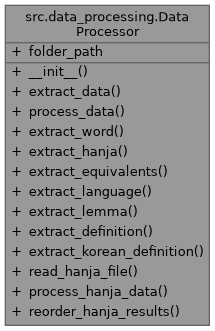
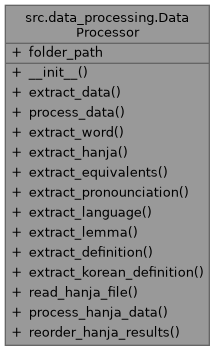
deploy: 311dc2bb75c84f01fe07c454813e0054d6c8f191

diff --git a/docs/classsrc_1_1data__access_1_1DataAccess.html b/docs/classsrc_1_1data__access_1_1DataAccess.html
@@ -125,9 +125,9 @@ Public Member Functions</h2></td></tr>
 <tr class="memitem:a1cfc6893f66c213340355c6acaf1a3a3" id="r_a1cfc6893f66c213340355c6acaf1a3a3"><td class="memItemLeft" align="right" valign="top">&#160;</td><td class="memItemRight" valign="bottom"><a class="el" href="classsrc_1_1data__access_1_1DataAccess.html#a1cfc6893f66c213340355c6acaf1a3a3">insert_hanja_data</a> (self, hanja_dict)</td></tr>
 <tr class="memdesc:a1cfc6893f66c213340355c6acaf1a3a3"><td class="mdescLeft">&#160;</td><td class="mdescRight">Inserts Hanja data into the 'hanja_characters' table.  <br /></td></tr>
 <tr class="separator:a1cfc6893f66c213340355c6acaf1a3a3"><td class="memSeparator" colspan="2">&#160;</td></tr>
-<tr class="memitem:a23e8da2b908674f31c01407620fe3728" id="r_a23e8da2b908674f31c01407620fe3728"><td class="memItemLeft" align="right" valign="top">&#160;</td><td class="memItemRight" valign="bottom"><a class="el" href="classsrc_1_1data__access_1_1DataAccess.html#a23e8da2b908674f31c01407620fe3728">drop_tables</a> (self, cursor)</td></tr>
-<tr class="memdesc:a23e8da2b908674f31c01407620fe3728"><td class="mdescLeft">&#160;</td><td class="mdescRight">Drops the 'hanja_characters' and 'korean_words' tables if they exist.  <br /></td></tr>
-<tr class="separator:a23e8da2b908674f31c01407620fe3728"><td class="memSeparator" colspan="2">&#160;</td></tr>
+<tr class="memitem:aeea5396030fe584da1640d87530a5cf1" id="r_aeea5396030fe584da1640d87530a5cf1"><td class="memItemLeft" align="right" valign="top">&#160;</td><td class="memItemRight" valign="bottom"><a class="el" href="classsrc_1_1data__access_1_1DataAccess.html#aeea5396030fe584da1640d87530a5cf1">drop_tables</a> (self)</td></tr>
+<tr class="memdesc:aeea5396030fe584da1640d87530a5cf1"><td class="mdescLeft">&#160;</td><td class="mdescRight">Drops the 'hanja_characters' and 'korean_words' tables if they exist.  <br /></td></tr>
+<tr class="separator:aeea5396030fe584da1640d87530a5cf1"><td class="memSeparator" colspan="2">&#160;</td></tr>
 <tr class="memitem:af99a1b0f03112122e4af577353d3444b" id="r_af99a1b0f03112122e4af577353d3444b"><td class="memItemLeft" align="right" valign="top">&#160;</td><td class="memItemRight" valign="bottom"><a class="el" href="classsrc_1_1data__access_1_1DataAccess.html#af99a1b0f03112122e4af577353d3444b">remove_duplicates</a> (self)</td></tr>
 <tr class="separator:af99a1b0f03112122e4af577353d3444b"><td class="memSeparator" colspan="2">&#160;</td></tr>
 <tr class="memitem:a6c59fef88695c46c9ee18f370e4346c6" id="r_a6c59fef88695c46c9ee18f370e4346c6"><td class="memItemLeft" align="right" valign="top">&#160;</td><td class="memItemRight" valign="bottom"><a class="el" href="classsrc_1_1data__access_1_1DataAccess.html#a6c59fef88695c46c9ee18f370e4346c6">get_hanja_for_word</a> (self, word)</td></tr>
@@ -136,8 +136,8 @@ Public Member Functions</h2></td></tr>
 <tr class="memitem:a3d1907ec15f436a5a700997ec2bdeedd" id="r_a3d1907ec15f436a5a700997ec2bdeedd"><td class="memItemLeft" align="right" valign="top">&#160;</td><td class="memItemRight" valign="bottom"><a class="el" href="classsrc_1_1data__access_1_1DataAccess.html#a3d1907ec15f436a5a700997ec2bdeedd">get_hanja_meanings_for_word</a> (self, word, hanja_list, language)</td></tr>
 <tr class="memdesc:a3d1907ec15f436a5a700997ec2bdeedd"><td class="mdescLeft">&#160;</td><td class="mdescRight">Retrieves Hanja meanings of every characters associated with a given Korean word.  <br /></td></tr>
 <tr class="separator:a3d1907ec15f436a5a700997ec2bdeedd"><td class="memSeparator" colspan="2">&#160;</td></tr>
-<tr class="memitem:a3f2fa8212ead4b1885e8f26697b4b0b9" id="r_a3f2fa8212ead4b1885e8f26697b4b0b9"><td class="memItemLeft" align="right" valign="top">&#160;</td><td class="memItemRight" valign="bottom"><a class="el" href="classsrc_1_1data__access_1_1DataAccess.html#a3f2fa8212ead4b1885e8f26697b4b0b9">get_word_by_korean</a> (self, korean_word, language)</td></tr>
-<tr class="separator:a3f2fa8212ead4b1885e8f26697b4b0b9"><td class="memSeparator" colspan="2">&#160;</td></tr>
+<tr class="memitem:a1122604162d00ff40da4c08ce4761cbb" id="r_a1122604162d00ff40da4c08ce4761cbb"><td class="memItemLeft" align="right" valign="top">&#160;</td><td class="memItemRight" valign="bottom"><a class="el" href="classsrc_1_1data__access_1_1DataAccess.html#a1122604162d00ff40da4c08ce4761cbb">get_word_by_korean</a> (self, korean_word, language, hanja_characters=None)</td></tr>
+<tr class="separator:a1122604162d00ff40da4c08ce4761cbb"><td class="memSeparator" colspan="2">&#160;</td></tr>
 <tr class="memitem:a1f8eb51816b5631748421df5638689e4" id="r_a1f8eb51816b5631748421df5638689e4"><td class="memItemLeft" align="right" valign="top">&#160;</td><td class="memItemRight" valign="bottom"><a class="el" href="classsrc_1_1data__access_1_1DataAccess.html#a1f8eb51816b5631748421df5638689e4">get_related_words</a> (self, hanja_character, language)</td></tr>
 <tr class="memdesc:a1f8eb51816b5631748421df5638689e4"><td class="mdescLeft">&#160;</td><td class="mdescRight">Gets all the words that contains the specified hanja character.  <br /></td></tr>
 <tr class="separator:a1f8eb51816b5631748421df5638689e4"><td class="memSeparator" colspan="2">&#160;</td></tr>
@@ -148,8 +148,8 @@ Public Member Functions</h2></td></tr>
 <a name="details" id="details"></a><h2 class="groupheader">Detailed Description</h2>
 <div class="textblock"><p>A class to handle database operations for managing Korean words and their associated Hanja characters. </p>
 </div><h2 class="groupheader">Member Function Documentation</h2>
-<a id="a23e8da2b908674f31c01407620fe3728" name="a23e8da2b908674f31c01407620fe3728"></a>
-<h2 class="memtitle"><span class="permalink"><a href="#a23e8da2b908674f31c01407620fe3728">&#9670;&#160;</a></span>drop_tables()</h2>
+<a id="aeea5396030fe584da1640d87530a5cf1" name="aeea5396030fe584da1640d87530a5cf1"></a>
+<h2 class="memtitle"><span class="permalink"><a href="#aeea5396030fe584da1640d87530a5cf1">&#9670;&#160;</a></span>drop_tables()</h2>
 
 <div class="memitem">
 <div class="memproto">
@@ -158,29 +158,13 @@ Public Member Functions</h2></td></tr>
           <td class="memname">src.data_access.DataAccess.drop_tables </td>
           <td>(</td>
           <td class="paramtype">&#160;</td>
-          <td class="paramname"><em>self</em>, </td>
-        </tr>
-        <tr>
-          <td class="paramkey"></td>
+          <td class="paramname"><em>self</em></td><td>)</td>
           <td></td>
-          <td class="paramtype">&#160;</td>
-          <td class="paramname"><em>cursor</em>&#160;</td>
-        </tr>
-        <tr>
-          <td></td>
-          <td>)</td>
-          <td></td><td></td>
         </tr>
       </table>
 </div><div class="memdoc">
 
 <p>Drops the 'hanja_characters' and 'korean_words' tables if they exist. </p>
-<dl class="params"><dt>Parameters</dt><dd>
-  <table class="params">
-    <tr><td class="paramname">cursor</td><td>(sqlite3.Cursor): The database cursor for executing SQL commands. </td></tr>
-  </table>
-  </dd>
-</dl>
 
 </div>
 </div>
@@ -337,8 +321,8 @@ Public Member Functions</h2></td></tr>
 
 </div>
 </div>
-<a id="a3f2fa8212ead4b1885e8f26697b4b0b9" name="a3f2fa8212ead4b1885e8f26697b4b0b9"></a>
-<h2 class="memtitle"><span class="permalink"><a href="#a3f2fa8212ead4b1885e8f26697b4b0b9">&#9670;&#160;</a></span>get_word_by_korean()</h2>
+<a id="a1122604162d00ff40da4c08ce4761cbb" name="a1122604162d00ff40da4c08ce4761cbb"></a>
+<h2 class="memtitle"><span class="permalink"><a href="#a1122604162d00ff40da4c08ce4761cbb">&#9670;&#160;</a></span>get_word_by_korean()</h2>
 
 <div class="memitem">
 <div class="memproto">
@@ -359,7 +343,13 @@ Public Member Functions</h2></td></tr>
           <td class="paramkey"></td>
           <td></td>
           <td class="paramtype">&#160;</td>
-          <td class="paramname"><em>language</em>&#160;</td>
+          <td class="paramname"><em>language</em>, </td>
+        </tr>
+        <tr>
+          <td class="paramkey"></td>
+          <td></td>
+          <td class="paramtype">&#160;</td>
+          <td class="paramname"><em>hanja_characters</em> = <code>None</code>&#160;</td>
         </tr>
         <tr>
           <td></td>
@@ -411,6 +401,7 @@ Database Schema:</h2>
 <li><code>korean</code> (TEXT, NOT NULL): Korean pronunciation of the Hanja.</li>
 <li><code>englishDefinition</code> (TEXT): Meaning of the Hanja character in english.</li>
 <li><code>frenchDefinition</code> (TEXT): Meaning of the Hanja character in french.</li>
+<li><code>pronounciation</code> (TEXT): html link of audio for the word's pronounciation.</li>
 </ul>
 <div class="image">
 <img src="database_diagram.png" alt="" width="400"/>
@@ -455,7 +446,8 @@ Database Schema:</h2>
 <li><code>englishLemma</code> (str): Lemma/word in English.</li>
 <li><code>englishDefinition</code> (str): English definition of the word.</li>
 <li><code>frenchLemma</code> (str): Lemma/word in French.</li>
-<li><code>frenchDefinition</code> (str): French definition of the word. </li>
+<li><code>frenchDefinition</code> (str): French definition of the word.</li>
+<li><code>pronounciation</code> (str): html link of audio for the word's pronounciation. </li>
 </ul>
 </td></tr>
   </table>

diff --git a/docs/navtreeindex0.js b/docs/navtreeindex0.js
@@ -15,18 +15,16 @@ var NAVTREEINDEX0 =
 "app_8py.html#ae8b1a661fd35aa767fc796c02781ba82":[2,0,0,1,1],
 "app_8py.html#af539acf96b123b092913c3b972d45f8d":[2,0,0,1,5],
 "classes.html":[1,1],
-"classsrc_1_1data__access_1_1DataAccess.html":[1,0,0,0,0],
 "classsrc_1_1data__access_1_1DataAccess.html":[0,0,1,1,0],
-"classsrc_1_1data__access_1_1DataAccess.html#a1cfc6893f66c213340355c6acaf1a3a3":[1,0,0,0,0,8],
+"classsrc_1_1data__access_1_1DataAccess.html":[1,0,0,0,0],
+"classsrc_1_1data__access_1_1DataAccess.html#a1122604162d00ff40da4c08ce4761cbb":[1,0,0,0,0,5],
+"classsrc_1_1data__access_1_1DataAccess.html#a1122604162d00ff40da4c08ce4761cbb":[0,0,1,1,0,5],
 "classsrc_1_1data__access_1_1DataAccess.html#a1cfc6893f66c213340355c6acaf1a3a3":[0,0,1,1,0,8],
+"classsrc_1_1data__access_1_1DataAccess.html#a1cfc6893f66c213340355c6acaf1a3a3":[1,0,0,0,0,8],
 "classsrc_1_1data__access_1_1DataAccess.html#a1f8eb51816b5631748421df5638689e4":[0,0,1,1,0,4],
 "classsrc_1_1data__access_1_1DataAccess.html#a1f8eb51816b5631748421df5638689e4":[1,0,0,0,0,4],
-"classsrc_1_1data__access_1_1DataAccess.html#a23e8da2b908674f31c01407620fe3728":[0,0,1,1,0,0],
-"classsrc_1_1data__access_1_1DataAccess.html#a23e8da2b908674f31c01407620fe3728":[1,0,0,0,0,0],
 "classsrc_1_1data__access_1_1DataAccess.html#a3d1907ec15f436a5a700997ec2bdeedd":[1,0,0,0,0,3],
 "classsrc_1_1data__access_1_1DataAccess.html#a3d1907ec15f436a5a700997ec2bdeedd":[0,0,1,1,0,3],
-"classsrc_1_1data__access_1_1DataAccess.html#a3f2fa8212ead4b1885e8f26697b4b0b9":[0,0,1,1,0,5],
-"classsrc_1_1data__access_1_1DataAccess.html#a3f2fa8212ead4b1885e8f26697b4b0b9":[1,0,0,0,0,5],
 "classsrc_1_1data__access_1_1DataAccess.html#a4684f7cefabfbcb84b28be9e2ef74f64":[0,0,1,1,0,6],
 "classsrc_1_1data__access_1_1DataAccess.html#a4684f7cefabfbcb84b28be9e2ef74f64":[1,0,0,0,0,6],
 "classsrc_1_1data__access_1_1DataAccess.html#a4f4e7ab71ee7131858752bdfb4d0e2f1":[0,0,1,1,0,7],
@@ -35,46 +33,50 @@ var NAVTREEINDEX0 =
 "classsrc_1_1data__access_1_1DataAccess.html#a6c59fef88695c46c9ee18f370e4346c6":[0,0,1,1,0,2],
 "classsrc_1_1data__access_1_1DataAccess.html#abcea9b4378c4ccf458bc2ad40418efdd":[1,0,0,0,0,1],
 "classsrc_1_1data__access_1_1DataAccess.html#abcea9b4378c4ccf458bc2ad40418efdd":[0,0,1,1,0,1],
+"classsrc_1_1data__access_1_1DataAccess.html#aeea5396030fe584da1640d87530a5cf1":[1,0,0,0,0,0],
+"classsrc_1_1data__access_1_1DataAccess.html#aeea5396030fe584da1640d87530a5cf1":[0,0,1,1,0,0],
 "classsrc_1_1data__access_1_1DataAccess.html#af99a1b0f03112122e4af577353d3444b":[0,0,1,1,0,9],
 "classsrc_1_1data__access_1_1DataAccess.html#af99a1b0f03112122e4af577353d3444b":[1,0,0,0,0,9],
-"classsrc_1_1data__processing_1_1DataProcessor.html":[0,0,1,2,0],
 "classsrc_1_1data__processing_1_1DataProcessor.html":[1,0,0,1,0],
-"classsrc_1_1data__processing_1_1DataProcessor.html#a3a6f7d8ef4426dfe180524a089fe5ea9":[0,0,1,2,0,7],
+"classsrc_1_1data__processing_1_1DataProcessor.html":[0,0,1,2,0],
 "classsrc_1_1data__processing_1_1DataProcessor.html#a3a6f7d8ef4426dfe180524a089fe5ea9":[1,0,0,1,0,7],
-"classsrc_1_1data__processing_1_1DataProcessor.html#a3f151d5d1bb0d7794aacf774691d3d1f":[1,0,0,1,0,13],
-"classsrc_1_1data__processing_1_1DataProcessor.html#a3f151d5d1bb0d7794aacf774691d3d1f":[0,0,1,2,0,13],
+"classsrc_1_1data__processing_1_1DataProcessor.html#a3a6f7d8ef4426dfe180524a089fe5ea9":[0,0,1,2,0,7],
+"classsrc_1_1data__processing_1_1DataProcessor.html#a3f151d5d1bb0d7794aacf774691d3d1f":[0,0,1,2,0,14],
+"classsrc_1_1data__processing_1_1DataProcessor.html#a3f151d5d1bb0d7794aacf774691d3d1f":[1,0,0,1,0,14],
 "classsrc_1_1data__processing_1_1DataProcessor.html#a4d8f294a1410020041fdd57ebca5c629":[1,0,0,1,0,1],
 "classsrc_1_1data__processing_1_1DataProcessor.html#a4d8f294a1410020041fdd57ebca5c629":[0,0,1,2,0,1],
 "classsrc_1_1data__processing_1_1DataProcessor.html#a5ee76136c86c8978b38d4917ea51d145":[1,0,0,1,0,2],
 "classsrc_1_1data__processing_1_1DataProcessor.html#a5ee76136c86c8978b38d4917ea51d145":[0,0,1,2,0,2],
-"classsrc_1_1data__processing_1_1DataProcessor.html#a611dcfaf4a6c3129fc38bc01d659203f":[0,0,1,2,0,10],
-"classsrc_1_1data__processing_1_1DataProcessor.html#a611dcfaf4a6c3129fc38bc01d659203f":[1,0,0,1,0,10],
+"classsrc_1_1data__processing_1_1DataProcessor.html#a611dcfaf4a6c3129fc38bc01d659203f":[1,0,0,1,0,11],
+"classsrc_1_1data__processing_1_1DataProcessor.html#a611dcfaf4a6c3129fc38bc01d659203f":[0,0,1,2,0,11],
 "classsrc_1_1data__processing_1_1DataProcessor.html#a8b10b2a476887fdf599456f74c582652":[1,0,0,1,0,5],
 "classsrc_1_1data__processing_1_1DataProcessor.html#a8b10b2a476887fdf599456f74c582652":[0,0,1,2,0,5],
-"classsrc_1_1data__processing_1_1DataProcessor.html#a8c28d40e8b07b8de8a765f8f5c9c18f8":[1,0,0,1,0,6],
 "classsrc_1_1data__processing_1_1DataProcessor.html#a8c28d40e8b07b8de8a765f8f5c9c18f8":[0,0,1,2,0,6],
-"classsrc_1_1data__processing_1_1DataProcessor.html#a908b48e2667224a24a994f9f15819cdb":[0,0,1,2,0,12],
-"classsrc_1_1data__processing_1_1DataProcessor.html#a908b48e2667224a24a994f9f15819cdb":[1,0,0,1,0,12],
-"classsrc_1_1data__processing_1_1DataProcessor.html#aa387522f4d9d82eab51fad066c97c404":[1,0,0,1,0,3],
+"classsrc_1_1data__processing_1_1DataProcessor.html#a8c28d40e8b07b8de8a765f8f5c9c18f8":[1,0,0,1,0,6],
+"classsrc_1_1data__processing_1_1DataProcessor.html#a908b48e2667224a24a994f9f15819cdb":[0,0,1,2,0,13],
+"classsrc_1_1data__processing_1_1DataProcessor.html#a908b48e2667224a24a994f9f15819cdb":[1,0,0,1,0,13],
 "classsrc_1_1data__processing_1_1DataProcessor.html#aa387522f4d9d82eab51fad066c97c404":[0,0,1,2,0,3],
-"classsrc_1_1data__processing_1_1DataProcessor.html#aca8cb2dd99e8358d0c80ff0f04307193":[0,0,1,2,0,8],
-"classsrc_1_1data__processing_1_1DataProcessor.html#aca8cb2dd99e8358d0c80ff0f04307193":[1,0,0,1,0,8],
-"classsrc_1_1data__processing_1_1DataProcessor.html#accedfc491786ec5de0b62d9f13ed1d2f":[1,0,0,1,0,0],
+"classsrc_1_1data__processing_1_1DataProcessor.html#aa387522f4d9d82eab51fad066c97c404":[1,0,0,1,0,3],
+"classsrc_1_1data__processing_1_1DataProcessor.html#ac8e2944d6f855feb557e929eb4631b51":[0,0,1,2,0,8],
+"classsrc_1_1data__processing_1_1DataProcessor.html#ac8e2944d6f855feb557e929eb4631b51":[1,0,0,1,0,8],
+"classsrc_1_1data__processing_1_1DataProcessor.html#aca8cb2dd99e8358d0c80ff0f04307193":[0,0,1,2,0,9],
+"classsrc_1_1data__processing_1_1DataProcessor.html#aca8cb2dd99e8358d0c80ff0f04307193":[1,0,0,1,0,9],
 "classsrc_1_1data__processing_1_1DataProcessor.html#accedfc491786ec5de0b62d9f13ed1d2f":[0,0,1,2,0,0],
-"classsrc_1_1data__processing_1_1DataProcessor.html#acee13daf812b03ebd4b468b5bd21d832":[0,0,1,2,0,11],
-"classsrc_1_1data__processing_1_1DataProcessor.html#acee13daf812b03ebd4b468b5bd21d832":[1,0,0,1,0,11],
+"classsrc_1_1data__processing_1_1DataProcessor.html#accedfc491786ec5de0b62d9f13ed1d2f":[1,0,0,1,0,0],
+"classsrc_1_1data__processing_1_1DataProcessor.html#acee13daf812b03ebd4b468b5bd21d832":[0,0,1,2,0,12],
+"classsrc_1_1data__processing_1_1DataProcessor.html#acee13daf812b03ebd4b468b5bd21d832":[1,0,0,1,0,12],
 "classsrc_1_1data__processing_1_1DataProcessor.html#ad0cff2f590f2a2398bf8bcc35c99cfc9":[0,0,1,2,0,4],
 "classsrc_1_1data__processing_1_1DataProcessor.html#ad0cff2f590f2a2398bf8bcc35c99cfc9":[1,0,0,1,0,4],
-"classsrc_1_1data__processing_1_1DataProcessor.html#af1d408b78a8a28b54b96e30bc3de1754":[0,0,1,2,0,9],
-"classsrc_1_1data__processing_1_1DataProcessor.html#af1d408b78a8a28b54b96e30bc3de1754":[1,0,0,1,0,9],
+"classsrc_1_1data__processing_1_1DataProcessor.html#af1d408b78a8a28b54b96e30bc3de1754":[0,0,1,2,0,10],
+"classsrc_1_1data__processing_1_1DataProcessor.html#af1d408b78a8a28b54b96e30bc3de1754":[1,0,0,1,0,10],
 "classsrc_1_1database_1_1DatabaseConnection.html":[0,0,1,3,0],
 "classsrc_1_1database_1_1DatabaseConnection.html":[1,0,0,2,0],
 "classsrc_1_1database_1_1DatabaseConnection.html#a00d6547240ef42d689d7825c7a5ad1ed":[1,0,0,2,0,1],
 "classsrc_1_1database_1_1DatabaseConnection.html#a00d6547240ef42d689d7825c7a5ad1ed":[0,0,1,3,0,1],
-"classsrc_1_1database_1_1DatabaseConnection.html#ab4b17edc08a871595f10ae5d2c519806":[1,0,0,2,0,0],
 "classsrc_1_1database_1_1DatabaseConnection.html#ab4b17edc08a871595f10ae5d2c519806":[0,0,1,3,0,0],
-"classsrc_1_1database_1_1DatabaseConnection.html#ace6735dee7ad91a77d0b120ae3cb3f87":[1,0,0,2,0,2],
+"classsrc_1_1database_1_1DatabaseConnection.html#ab4b17edc08a871595f10ae5d2c519806":[1,0,0,2,0,0],
 "classsrc_1_1database_1_1DatabaseConnection.html#ace6735dee7ad91a77d0b120ae3cb3f87":[0,0,1,3,0,2],
+"classsrc_1_1database_1_1DatabaseConnection.html#ace6735dee7ad91a77d0b120ae3cb3f87":[1,0,0,2,0,2],
 "config_8py.html":[2,0,1,1],
 "config_8py.html#a371a629caa526e7cbc3a025840bc1b50":[2,0,1,1,0],
 "config_8py.html#a9ac81f0c023a802f6daf87ac4b00080b":[2,0,1,1,1],

diff --git a/docs/classsrc_1_1data__processing_1_1DataProcessor-members.html b/docs/classsrc_1_1data__processing_1_1DataProcessor-members.html
@@ -110,12 +110,13 @@ $(document).ready(function(){initNavTree('classsrc_1_1data__processing_1_1DataPr
   <tr class="odd"><td class="entry"><a class="el" href="classsrc_1_1data__processing_1_1DataProcessor.html#a8b10b2a476887fdf599456f74c582652">extract_korean_definition</a>(self, entry)</td><td class="entry"><a class="el" href="classsrc_1_1data__processing_1_1DataProcessor.html">src.data_processing.DataProcessor</a></td><td class="entry"></td></tr>
   <tr class="even"><td class="entry"><a class="el" href="classsrc_1_1data__processing_1_1DataProcessor.html#a8c28d40e8b07b8de8a765f8f5c9c18f8">extract_language</a>(self, equivalents)</td><td class="entry"><a class="el" href="classsrc_1_1data__processing_1_1DataProcessor.html">src.data_processing.DataProcessor</a></td><td class="entry"></td></tr>
   <tr class="odd"><td class="entry"><a class="el" href="classsrc_1_1data__processing_1_1DataProcessor.html#a3a6f7d8ef4426dfe180524a089fe5ea9">extract_lemma</a>(self, equivalents)</td><td class="entry"><a class="el" href="classsrc_1_1data__processing_1_1DataProcessor.html">src.data_processing.DataProcessor</a></td><td class="entry"></td></tr>
-  <tr class="even"><td class="entry"><a class="el" href="classsrc_1_1data__processing_1_1DataProcessor.html#aca8cb2dd99e8358d0c80ff0f04307193">extract_word</a>(self, lemma_datas)</td><td class="entry"><a class="el" href="classsrc_1_1data__processing_1_1DataProcessor.html">src.data_processing.DataProcessor</a></td><td class="entry"></td></tr>
-  <tr class="odd"><td class="entry"><a class="el" href="classsrc_1_1data__processing_1_1DataProcessor.html#a3f151d5d1bb0d7794aacf774691d3d1f">folder_path</a></td><td class="entry"><a class="el" href="classsrc_1_1data__processing_1_1DataProcessor.html">src.data_processing.DataProcessor</a></td><td class="entry"></td></tr>
-  <tr class="even"><td class="entry"><a class="el" href="classsrc_1_1data__processing_1_1DataProcessor.html#af1d408b78a8a28b54b96e30bc3de1754">process_data</a>(self, raw_data)</td><td class="entry"><a class="el" href="classsrc_1_1data__processing_1_1DataProcessor.html">src.data_processing.DataProcessor</a></td><td class="entry"></td></tr>
-  <tr class="odd"><td class="entry"><a class="el" href="classsrc_1_1data__processing_1_1DataProcessor.html#a611dcfaf4a6c3129fc38bc01d659203f">process_hanja_data</a>(self, lines)</td><td class="entry"><a class="el" href="classsrc_1_1data__processing_1_1DataProcessor.html">src.data_processing.DataProcessor</a></td><td class="entry"></td></tr>
-  <tr class="even"><td class="entry"><a class="el" href="classsrc_1_1data__processing_1_1DataProcessor.html#acee13daf812b03ebd4b468b5bd21d832">read_hanja_file</a>(self, file_path)</td><td class="entry"><a class="el" href="classsrc_1_1data__processing_1_1DataProcessor.html">src.data_processing.DataProcessor</a></td><td class="entry"></td></tr>
-  <tr class="odd"><td class="entry"><a class="el" href="classsrc_1_1data__processing_1_1DataProcessor.html#a908b48e2667224a24a994f9f15819cdb">reorder_hanja_results</a>(self, hanja_results, hanja_characters)</td><td class="entry"><a class="el" href="classsrc_1_1data__processing_1_1DataProcessor.html">src.data_processing.DataProcessor</a></td><td class="entry"></td></tr>
+  <tr class="even"><td class="entry"><a class="el" href="classsrc_1_1data__processing_1_1DataProcessor.html#ac8e2944d6f855feb557e929eb4631b51">extract_pronounciation</a>(self, word_form)</td><td class="entry"><a class="el" href="classsrc_1_1data__processing_1_1DataProcessor.html">src.data_processing.DataProcessor</a></td><td class="entry"></td></tr>
+  <tr class="odd"><td class="entry"><a class="el" href="classsrc_1_1data__processing_1_1DataProcessor.html#aca8cb2dd99e8358d0c80ff0f04307193">extract_word</a>(self, lemma_datas)</td><td class="entry"><a class="el" href="classsrc_1_1data__processing_1_1DataProcessor.html">src.data_processing.DataProcessor</a></td><td class="entry"></td></tr>
+  <tr class="even"><td class="entry"><a class="el" href="classsrc_1_1data__processing_1_1DataProcessor.html#a3f151d5d1bb0d7794aacf774691d3d1f">folder_path</a></td><td class="entry"><a class="el" href="classsrc_1_1data__processing_1_1DataProcessor.html">src.data_processing.DataProcessor</a></td><td class="entry"></td></tr>
+  <tr class="odd"><td class="entry"><a class="el" href="classsrc_1_1data__processing_1_1DataProcessor.html#af1d408b78a8a28b54b96e30bc3de1754">process_data</a>(self, raw_data)</td><td class="entry"><a class="el" href="classsrc_1_1data__processing_1_1DataProcessor.html">src.data_processing.DataProcessor</a></td><td class="entry"></td></tr>
+  <tr class="even"><td class="entry"><a class="el" href="classsrc_1_1data__processing_1_1DataProcessor.html#a611dcfaf4a6c3129fc38bc01d659203f">process_hanja_data</a>(self, lines)</td><td class="entry"><a class="el" href="classsrc_1_1data__processing_1_1DataProcessor.html">src.data_processing.DataProcessor</a></td><td class="entry"></td></tr>
+  <tr class="odd"><td class="entry"><a class="el" href="classsrc_1_1data__processing_1_1DataProcessor.html#acee13daf812b03ebd4b468b5bd21d832">read_hanja_file</a>(self, file_path)</td><td class="entry"><a class="el" href="classsrc_1_1data__processing_1_1DataProcessor.html">src.data_processing.DataProcessor</a></td><td class="entry"></td></tr>
+  <tr class="even"><td class="entry"><a class="el" href="classsrc_1_1data__processing_1_1DataProcessor.html#a908b48e2667224a24a994f9f15819cdb">reorder_hanja_results</a>(self, hanja_results, hanja_characters)</td><td class="entry"><a class="el" href="classsrc_1_1data__processing_1_1DataProcessor.html">src.data_processing.DataProcessor</a></td><td class="entry"></td></tr>
 </table></div><!-- contents -->
 </div><!-- doc-content -->
 <!-- start footer part -->

diff --git a/docs/functions.html b/docs/functions.html
@@ -101,7 +101,7 @@ $(document).ready(function(){initNavTree('functions.html',''); initResizable(); 
 <li>__exit__()&#160;:&#160;<a class="el" href="classsrc_1_1database_1_1DatabaseConnection.html#a00d6547240ef42d689d7825c7a5ad1ed">src.database.DatabaseConnection</a></li>
 <li>__init__()&#160;:&#160;<a class="el" href="classsrc_1_1data__processing_1_1DataProcessor.html#accedfc491786ec5de0b62d9f13ed1d2f">src.data_processing.DataProcessor</a></li>
 <li>conn&#160;:&#160;<a class="el" href="classsrc_1_1database_1_1DatabaseConnection.html#ace6735dee7ad91a77d0b120ae3cb3f87">src.database.DatabaseConnection</a></li>
-<li>drop_tables()&#160;:&#160;<a class="el" href="classsrc_1_1data__access_1_1DataAccess.html#a23e8da2b908674f31c01407620fe3728">src.data_access.DataAccess</a></li>
+<li>drop_tables()&#160;:&#160;<a class="el" href="classsrc_1_1data__access_1_1DataAccess.html#aeea5396030fe584da1640d87530a5cf1">src.data_access.DataAccess</a></li>
 <li>extract_data()&#160;:&#160;<a class="el" href="classsrc_1_1data__processing_1_1DataProcessor.html#a4d8f294a1410020041fdd57ebca5c629">src.data_processing.DataProcessor</a></li>
 <li>extract_definition()&#160;:&#160;<a class="el" href="classsrc_1_1data__processing_1_1DataProcessor.html#a5ee76136c86c8978b38d4917ea51d145">src.data_processing.DataProcessor</a></li>
 <li>extract_equivalents()&#160;:&#160;<a class="el" href="classsrc_1_1data__processing_1_1DataProcessor.html#aa387522f4d9d82eab51fad066c97c404">src.data_processing.DataProcessor</a></li>
@@ -109,13 +109,14 @@ $(document).ready(function(){initNavTree('functions.html',''); initResizable(); 
 <li>extract_korean_definition()&#160;:&#160;<a class="el" href="classsrc_1_1data__processing_1_1DataProcessor.html#a8b10b2a476887fdf599456f74c582652">src.data_processing.DataProcessor</a></li>
 <li>extract_language()&#160;:&#160;<a class="el" href="classsrc_1_1data__processing_1_1DataProcessor.html#a8c28d40e8b07b8de8a765f8f5c9c18f8">src.data_processing.DataProcessor</a></li>
 <li>extract_lemma()&#160;:&#160;<a class="el" href="classsrc_1_1data__processing_1_1DataProcessor.html#a3a6f7d8ef4426dfe180524a089fe5ea9">src.data_processing.DataProcessor</a></li>
+<li>extract_pronounciation()&#160;:&#160;<a class="el" href="classsrc_1_1data__processing_1_1DataProcessor.html#ac8e2944d6f855feb557e929eb4631b51">src.data_processing.DataProcessor</a></li>
 <li>extract_word()&#160;:&#160;<a class="el" href="classsrc_1_1data__processing_1_1DataProcessor.html#aca8cb2dd99e8358d0c80ff0f04307193">src.data_processing.DataProcessor</a></li>
 <li>find_word_with_unique_hanja()&#160;:&#160;<a class="el" href="classsrc_1_1data__access_1_1DataAccess.html#abcea9b4378c4ccf458bc2ad40418efdd">src.data_access.DataAccess</a></li>
 <li>folder_path&#160;:&#160;<a class="el" href="classsrc_1_1data__processing_1_1DataProcessor.html#a3f151d5d1bb0d7794aacf774691d3d1f">src.data_processing.DataProcessor</a></li>
 <li>get_hanja_for_word()&#160;:&#160;<a class="el" href="classsrc_1_1data__access_1_1DataAccess.html#a6c59fef88695c46c9ee18f370e4346c6">src.data_access.DataAccess</a></li>
 <li>get_hanja_meanings_for_word()&#160;:&#160;<a class="el" href="classsrc_1_1data__access_1_1DataAccess.html#a3d1907ec15f436a5a700997ec2bdeedd">src.data_access.DataAccess</a></li>
 <li>get_related_words()&#160;:&#160;<a class="el" href="classsrc_1_1data__access_1_1DataAccess.html#a1f8eb51816b5631748421df5638689e4">src.data_access.DataAccess</a></li>
-<li>get_word_by_korean()&#160;:&#160;<a class="el" href="classsrc_1_1data__access_1_1DataAccess.html#a3f2fa8212ead4b1885e8f26697b4b0b9">src.data_access.DataAccess</a></li>
+<li>get_word_by_korean()&#160;:&#160;<a class="el" href="classsrc_1_1data__access_1_1DataAccess.html#a1122604162d00ff40da4c08ce4761cbb">src.data_access.DataAccess</a></li>
 <li>initialize_database()&#160;:&#160;<a class="el" href="classsrc_1_1data__access_1_1DataAccess.html#a4684f7cefabfbcb84b28be9e2ef74f64">src.data_access.DataAccess</a></li>
 <li>insert_data()&#160;:&#160;<a class="el" href="classsrc_1_1data__access_1_1DataAccess.html#a4f4e7ab71ee7131858752bdfb4d0e2f1">src.data_access.DataAccess</a></li>
 <li>insert_hanja_data()&#160;:&#160;<a class="el" href="classsrc_1_1data__access_1_1DataAccess.html#a1cfc6893f66c213340355c6acaf1a3a3">src.data_access.DataAccess</a></li>

diff --git a/docs/classsrc_1_1data__processing_1_1DataProcessor.html b/docs/classsrc_1_1data__processing_1_1DataProcessor.html
@@ -111,7 +111,7 @@ Collaboration diagram for src.data_processing.DataProcessor:</div>
 <div class="dyncontent">
 <div class="center"><img src="classsrc_1_1data__processing_1_1DataProcessor__coll__graph.png" border="0" usemap="#asrc_8data__processing_8DataProcessor_coll__map" alt="Collaboration graph"/></div>
 <map name="asrc_8data__processing_8DataProcessor_coll__map" id="asrc_8data__processing_8DataProcessor_coll__map">
-<area shape="rect" title="A class to process the data of the json file." alt="" coords="5,5,209,325"/>
+<area shape="rect" title="A class to process the data of the json file." alt="" coords="5,5,209,345"/>
 </map>
 </div>
 <table class="memberdecls">
@@ -134,6 +134,9 @@ Public Member Functions</h2></td></tr>
 <tr class="memitem:aa387522f4d9d82eab51fad066c97c404" id="r_aa387522f4d9d82eab51fad066c97c404"><td class="memItemLeft" align="right" valign="top">&#160;</td><td class="memItemRight" valign="bottom"><a class="el" href="classsrc_1_1data__processing_1_1DataProcessor.html#aa387522f4d9d82eab51fad066c97c404">extract_equivalents</a> (self, sense_datas)</td></tr>
 <tr class="memdesc:aa387522f4d9d82eab51fad066c97c404"><td class="mdescLeft">&#160;</td><td class="mdescRight">Extracts the Equivalent data from the Sense.  <br /></td></tr>
 <tr class="separator:aa387522f4d9d82eab51fad066c97c404"><td class="memSeparator" colspan="2">&#160;</td></tr>
+<tr class="memitem:ac8e2944d6f855feb557e929eb4631b51" id="r_ac8e2944d6f855feb557e929eb4631b51"><td class="memItemLeft" align="right" valign="top">&#160;</td><td class="memItemRight" valign="bottom"><a class="el" href="classsrc_1_1data__processing_1_1DataProcessor.html#ac8e2944d6f855feb557e929eb4631b51">extract_pronounciation</a> (self, word_form)</td></tr>
+<tr class="memdesc:ac8e2944d6f855feb557e929eb4631b51"><td class="mdescLeft">&#160;</td><td class="mdescRight">Extracts the pronounciation data from the wordForm.  <br /></td></tr>
+<tr class="separator:ac8e2944d6f855feb557e929eb4631b51"><td class="memSeparator" colspan="2">&#160;</td></tr>
 <tr class="memitem:a8c28d40e8b07b8de8a765f8f5c9c18f8" id="r_a8c28d40e8b07b8de8a765f8f5c9c18f8"><td class="memItemLeft" align="right" valign="top">&#160;</td><td class="memItemRight" valign="bottom"><a class="el" href="classsrc_1_1data__processing_1_1DataProcessor.html#a8c28d40e8b07b8de8a765f8f5c9c18f8">extract_language</a> (self, equivalents)</td></tr>
 <tr class="memdesc:a8c28d40e8b07b8de8a765f8f5c9c18f8"><td class="mdescLeft">&#160;</td><td class="mdescRight">Extracts the 'language' from the Equivalent.  <br /></td></tr>
 <tr class="separator:a8c28d40e8b07b8de8a765f8f5c9c18f8"><td class="memSeparator" colspan="2">&#160;</td></tr>
@@ -436,6 +439,43 @@ Public Attributes</h2></td></tr>
   </dd>
 </dl>
 <dl class="section return"><dt>Returns</dt><dd>The lemma value, or None if not found. </dd></dl>
+
+</div>
+</div>
+<a id="ac8e2944d6f855feb557e929eb4631b51" name="ac8e2944d6f855feb557e929eb4631b51"></a>
+<h2 class="memtitle"><span class="permalink"><a href="#ac8e2944d6f855feb557e929eb4631b51">&#9670;&#160;</a></span>extract_pronounciation()</h2>
+
+<div class="memitem">
+<div class="memproto">
+      <table class="memname">
+        <tr>
+          <td class="memname">src.data_processing.DataProcessor.extract_pronounciation </td>
+          <td>(</td>
+          <td class="paramtype">&#160;</td>
+          <td class="paramname"><em>self</em>, </td>
+        </tr>
+        <tr>
+          <td class="paramkey"></td>
+          <td></td>
+          <td class="paramtype">&#160;</td>
+          <td class="paramname"><em>word_form</em>&#160;</td>
+        </tr>
+        <tr>
+          <td></td>
+          <td>)</td>
+          <td></td><td></td>
+        </tr>
+      </table>
+</div><div class="memdoc">
+
+<p>Extracts the pronounciation data from the wordForm. </p>
+<dl class="params"><dt>Parameters</dt><dd>
+  <table class="params">
+    <tr><td class="paramname">word_form</td><td>The wordForm data, which can be a list or a dictionary. </td></tr>
+  </table>
+  </dd>
+</dl>
+<dl class="section return"><dt>Returns</dt><dd>The extracted sound data, or None if not found. </dd></dl>
 
 </div>
 </div>

diff --git a/docs/functions_func.html b/docs/functions_func.html
@@ -100,7 +100,7 @@ $(document).ready(function(){initNavTree('functions_func.html',''); initResizabl
 <li>__enter__()&#160;:&#160;<a class="el" href="classsrc_1_1database_1_1DatabaseConnection.html#ab4b17edc08a871595f10ae5d2c519806">src.database.DatabaseConnection</a></li>
 <li>__exit__()&#160;:&#160;<a class="el" href="classsrc_1_1database_1_1DatabaseConnection.html#a00d6547240ef42d689d7825c7a5ad1ed">src.database.DatabaseConnection</a></li>
 <li>__init__()&#160;:&#160;<a class="el" href="classsrc_1_1data__processing_1_1DataProcessor.html#accedfc491786ec5de0b62d9f13ed1d2f">src.data_processing.DataProcessor</a></li>
-<li>drop_tables()&#160;:&#160;<a class="el" href="classsrc_1_1data__access_1_1DataAccess.html#a23e8da2b908674f31c01407620fe3728">src.data_access.DataAccess</a></li>
+<li>drop_tables()&#160;:&#160;<a class="el" href="classsrc_1_1data__access_1_1DataAccess.html#aeea5396030fe584da1640d87530a5cf1">src.data_access.DataAccess</a></li>
 <li>extract_data()&#160;:&#160;<a class="el" href="classsrc_1_1data__processing_1_1DataProcessor.html#a4d8f294a1410020041fdd57ebca5c629">src.data_processing.DataProcessor</a></li>
 <li>extract_definition()&#160;:&#160;<a class="el" href="classsrc_1_1data__processing_1_1DataProcessor.html#a5ee76136c86c8978b38d4917ea51d145">src.data_processing.DataProcessor</a></li>
 <li>extract_equivalents()&#160;:&#160;<a class="el" href="classsrc_1_1data__processing_1_1DataProcessor.html#aa387522f4d9d82eab51fad066c97c404">src.data_processing.DataProcessor</a></li>
@@ -108,12 +108,13 @@ $(document).ready(function(){initNavTree('functions_func.html',''); initResizabl
 <li>extract_korean_definition()&#160;:&#160;<a class="el" href="classsrc_1_1data__processing_1_1DataProcessor.html#a8b10b2a476887fdf599456f74c582652">src.data_processing.DataProcessor</a></li>
 <li>extract_language()&#160;:&#160;<a class="el" href="classsrc_1_1data__processing_1_1DataProcessor.html#a8c28d40e8b07b8de8a765f8f5c9c18f8">src.data_processing.DataProcessor</a></li>
 <li>extract_lemma()&#160;:&#160;<a class="el" href="classsrc_1_1data__processing_1_1DataProcessor.html#a3a6f7d8ef4426dfe180524a089fe5ea9">src.data_processing.DataProcessor</a></li>
+<li>extract_pronounciation()&#160;:&#160;<a class="el" href="classsrc_1_1data__processing_1_1DataProcessor.html#ac8e2944d6f855feb557e929eb4631b51">src.data_processing.DataProcessor</a></li>
 <li>extract_word()&#160;:&#160;<a class="el" href="classsrc_1_1data__processing_1_1DataProcessor.html#aca8cb2dd99e8358d0c80ff0f04307193">src.data_processing.DataProcessor</a></li>
 <li>find_word_with_unique_hanja()&#160;:&#160;<a class="el" href="classsrc_1_1data__access_1_1DataAccess.html#abcea9b4378c4ccf458bc2ad40418efdd">src.data_access.DataAccess</a></li>
 <li>get_hanja_for_word()&#160;:&#160;<a class="el" href="classsrc_1_1data__access_1_1DataAccess.html#a6c59fef88695c46c9ee18f370e4346c6">src.data_access.DataAccess</a></li>
 <li>get_hanja_meanings_for_word()&#160;:&#160;<a class="el" href="classsrc_1_1data__access_1_1DataAccess.html#a3d1907ec15f436a5a700997ec2bdeedd">src.data_access.DataAccess</a></li>
 <li>get_related_words()&#160;:&#160;<a class="el" href="classsrc_1_1data__access_1_1DataAccess.html#a1f8eb51816b5631748421df5638689e4">src.data_access.DataAccess</a></li>
-<li>get_word_by_korean()&#160;:&#160;<a class="el" href="classsrc_1_1data__access_1_1DataAccess.html#a3f2fa8212ead4b1885e8f26697b4b0b9">src.data_access.DataAccess</a></li>
+<li>get_word_by_korean()&#160;:&#160;<a class="el" href="classsrc_1_1data__access_1_1DataAccess.html#a1122604162d00ff40da4c08ce4761cbb">src.data_access.DataAccess</a></li>
 <li>initialize_database()&#160;:&#160;<a class="el" href="classsrc_1_1data__access_1_1DataAccess.html#a4684f7cefabfbcb84b28be9e2ef74f64">src.data_access.DataAccess</a></li>
 <li>insert_data()&#160;:&#160;<a class="el" href="classsrc_1_1data__access_1_1DataAccess.html#a4f4e7ab71ee7131858752bdfb4d0e2f1">src.data_access.DataAccess</a></li>
 <li>insert_hanja_data()&#160;:&#160;<a class="el" href="classsrc_1_1data__access_1_1DataAccess.html#a1cfc6893f66c213340355c6acaf1a3a3">src.data_access.DataAccess</a></li>

diff --git a/docs/classsrc_1_1data__access_1_1DataAccess-members.html b/docs/classsrc_1_1data__access_1_1DataAccess-members.html
@@ -102,12 +102,12 @@ $(document).ready(function(){initNavTree('classsrc_1_1data__access_1_1DataAccess
 
 <p>This is the complete list of members for <a class="el" href="classsrc_1_1data__access_1_1DataAccess.html">src.data_access.DataAccess</a>, including all inherited members.</p>
 <table class="directory">
-  <tr class="even"><td class="entry"><a class="el" href="classsrc_1_1data__access_1_1DataAccess.html#a23e8da2b908674f31c01407620fe3728">drop_tables</a>(self, cursor)</td><td class="entry"><a class="el" href="classsrc_1_1data__access_1_1DataAccess.html">src.data_access.DataAccess</a></td><td class="entry"></td></tr>
+  <tr class="even"><td class="entry"><a class="el" href="classsrc_1_1data__access_1_1DataAccess.html#aeea5396030fe584da1640d87530a5cf1">drop_tables</a>(self)</td><td class="entry"><a class="el" href="classsrc_1_1data__access_1_1DataAccess.html">src.data_access.DataAccess</a></td><td class="entry"></td></tr>
   <tr class="odd"><td class="entry"><a class="el" href="classsrc_1_1data__access_1_1DataAccess.html#abcea9b4378c4ccf458bc2ad40418efdd">find_word_with_unique_hanja</a>(self)</td><td class="entry"><a class="el" href="classsrc_1_1data__access_1_1DataAccess.html">src.data_access.DataAccess</a></td><td class="entry"></td></tr>
   <tr class="even"><td class="entry"><a class="el" href="classsrc_1_1data__access_1_1DataAccess.html#a6c59fef88695c46c9ee18f370e4346c6">get_hanja_for_word</a>(self, word)</td><td class="entry"><a class="el" href="classsrc_1_1data__access_1_1DataAccess.html">src.data_access.DataAccess</a></td><td class="entry"></td></tr>
   <tr class="odd"><td class="entry"><a class="el" href="classsrc_1_1data__access_1_1DataAccess.html#a3d1907ec15f436a5a700997ec2bdeedd">get_hanja_meanings_for_word</a>(self, word, hanja_list, language)</td><td class="entry"><a class="el" href="classsrc_1_1data__access_1_1DataAccess.html">src.data_access.DataAccess</a></td><td class="entry"></td></tr>
   <tr class="even"><td class="entry"><a class="el" href="classsrc_1_1data__access_1_1DataAccess.html#a1f8eb51816b5631748421df5638689e4">get_related_words</a>(self, hanja_character, language)</td><td class="entry"><a class="el" href="classsrc_1_1data__access_1_1DataAccess.html">src.data_access.DataAccess</a></td><td class="entry"></td></tr>
-  <tr class="odd"><td class="entry"><a class="el" href="classsrc_1_1data__access_1_1DataAccess.html#a3f2fa8212ead4b1885e8f26697b4b0b9">get_word_by_korean</a>(self, korean_word, language)</td><td class="entry"><a class="el" href="classsrc_1_1data__access_1_1DataAccess.html">src.data_access.DataAccess</a></td><td class="entry"></td></tr>
+  <tr class="odd"><td class="entry"><a class="el" href="classsrc_1_1data__access_1_1DataAccess.html#a1122604162d00ff40da4c08ce4761cbb">get_word_by_korean</a>(self, korean_word, language, hanja_characters=None)</td><td class="entry"><a class="el" href="classsrc_1_1data__access_1_1DataAccess.html">src.data_access.DataAccess</a></td><td class="entry"></td></tr>
   <tr class="even"><td class="entry"><a class="el" href="classsrc_1_1data__access_1_1DataAccess.html#a4684f7cefabfbcb84b28be9e2ef74f64">initialize_database</a>(self)</td><td class="entry"><a class="el" href="classsrc_1_1data__access_1_1DataAccess.html">src.data_access.DataAccess</a></td><td class="entry"></td></tr>
   <tr class="odd"><td class="entry"><a class="el" href="classsrc_1_1data__access_1_1DataAccess.html#a4f4e7ab71ee7131858752bdfb4d0e2f1">insert_data</a>(self, processed_data)</td><td class="entry"><a class="el" href="classsrc_1_1data__access_1_1DataAccess.html">src.data_access.DataAccess</a></td><td class="entry"></td></tr>
   <tr class="even"><td class="entry"><a class="el" href="classsrc_1_1data__access_1_1DataAccess.html#a1cfc6893f66c213340355c6acaf1a3a3">insert_hanja_data</a>(self, hanja_dict)</td><td class="entry"><a class="el" href="classsrc_1_1data__access_1_1DataAccess.html">src.data_access.DataAccess</a></td><td class="entry"></td></tr>

diff --git a/docs/classsrc_1_1data__access_1_1DataAccess.js b/docs/classsrc_1_1data__access_1_1DataAccess.js
@@ -1,11 +1,11 @@
 var classsrc_1_1data__access_1_1DataAccess =
 [
-    [ "drop_tables", "classsrc_1_1data__access_1_1DataAccess.html#a23e8da2b908674f31c01407620fe3728", null ],
+    [ "drop_tables", "classsrc_1_1data__access_1_1DataAccess.html#aeea5396030fe584da1640d87530a5cf1", null ],
     [ "find_word_with_unique_hanja", "classsrc_1_1data__access_1_1DataAccess.html#abcea9b4378c4ccf458bc2ad40418efdd", null ],
     [ "get_hanja_for_word", "classsrc_1_1data__access_1_1DataAccess.html#a6c59fef88695c46c9ee18f370e4346c6", null ],
     [ "get_hanja_meanings_for_word", "classsrc_1_1data__access_1_1DataAccess.html#a3d1907ec15f436a5a700997ec2bdeedd", null ],
     [ "get_related_words", "classsrc_1_1data__access_1_1DataAccess.html#a1f8eb51816b5631748421df5638689e4", null ],
-    [ "get_word_by_korean", "classsrc_1_1data__access_1_1DataAccess.html#a3f2fa8212ead4b1885e8f26697b4b0b9", null ],
+    [ "get_word_by_korean", "classsrc_1_1data__access_1_1DataAccess.html#a1122604162d00ff40da4c08ce4761cbb", null ],
     [ "initialize_database", "classsrc_1_1data__access_1_1DataAccess.html#a4684f7cefabfbcb84b28be9e2ef74f64", null ],
     [ "insert_data", "classsrc_1_1data__access_1_1DataAccess.html#a4f4e7ab71ee7131858752bdfb4d0e2f1", null ],
     [ "insert_hanja_data", "classsrc_1_1data__access_1_1DataAccess.html#a1cfc6893f66c213340355c6acaf1a3a3", null ],

diff --git a/docs/search/all_5.js b/docs/search/all_5.js
@@ -7,5 +7,6 @@ var searchData=
   ['extract_5fkorean_5fdefinition_4',['extract_korean_definition',['../classsrc_1_1data__processing_1_1DataProcessor.html#a8b10b2a476887fdf599456f74c582652',1,'src::data_processing::DataProcessor']]],
   ['extract_5flanguage_5',['extract_language',['../classsrc_1_1data__processing_1_1DataProcessor.html#a8c28d40e8b07b8de8a765f8f5c9c18f8',1,'src::data_processing::DataProcessor']]],
   ['extract_5flemma_6',['extract_lemma',['../classsrc_1_1data__processing_1_1DataProcessor.html#a3a6f7d8ef4426dfe180524a089fe5ea9',1,'src::data_processing::DataProcessor']]],
-  ['extract_5fword_7',['extract_word',['../classsrc_1_1data__processing_1_1DataProcessor.html#aca8cb2dd99e8358d0c80ff0f04307193',1,'src::data_processing::DataProcessor']]]
+  ['extract_5fpronounciation_7',['extract_pronounciation',['../classsrc_1_1data__processing_1_1DataProcessor.html#ac8e2944d6f855feb557e929eb4631b51',1,'src::data_processing::DataProcessor']]],
+  ['extract_5fword_8',['extract_word',['../classsrc_1_1data__processing_1_1DataProcessor.html#aca8cb2dd99e8358d0c80ff0f04307193',1,'src::data_processing::DataProcessor']]]
 ];

diff --git a/docs/search/functions_2.js b/docs/search/functions_2.js
@@ -7,5 +7,6 @@ var searchData=
   ['extract_5fkorean_5fdefinition_4',['extract_korean_definition',['../classsrc_1_1data__processing_1_1DataProcessor.html#a8b10b2a476887fdf599456f74c582652',1,'src::data_processing::DataProcessor']]],
   ['extract_5flanguage_5',['extract_language',['../classsrc_1_1data__processing_1_1DataProcessor.html#a8c28d40e8b07b8de8a765f8f5c9c18f8',1,'src::data_processing::DataProcessor']]],
   ['extract_5flemma_6',['extract_lemma',['../classsrc_1_1data__processing_1_1DataProcessor.html#a3a6f7d8ef4426dfe180524a089fe5ea9',1,'src::data_processing::DataProcessor']]],
-  ['extract_5fword_7',['extract_word',['../classsrc_1_1data__processing_1_1DataProcessor.html#aca8cb2dd99e8358d0c80ff0f04307193',1,'src::data_processing::DataProcessor']]]
+  ['extract_5fpronounciation_7',['extract_pronounciation',['../classsrc_1_1data__processing_1_1DataProcessor.html#ac8e2944d6f855feb557e929eb4631b51',1,'src::data_processing::DataProcessor']]],
+  ['extract_5fword_8',['extract_word',['../classsrc_1_1data__processing_1_1DataProcessor.html#aca8cb2dd99e8358d0c80ff0f04307193',1,'src::data_processing::DataProcessor']]]
 ];

diff --git a/docs/classsrc_1_1data__processing_1_1DataProcessor.js b/docs/classsrc_1_1data__processing_1_1DataProcessor.js
@@ -8,6 +8,7 @@ var classsrc_1_1data__processing_1_1DataProcessor =
     [ "extract_korean_definition", "classsrc_1_1data__processing_1_1DataProcessor.html#a8b10b2a476887fdf599456f74c582652", null ],
     [ "extract_language", "classsrc_1_1data__processing_1_1DataProcessor.html#a8c28d40e8b07b8de8a765f8f5c9c18f8", null ],
     [ "extract_lemma", "classsrc_1_1data__processing_1_1DataProcessor.html#a3a6f7d8ef4426dfe180524a089fe5ea9", null ],
+    [ "extract_pronounciation", "classsrc_1_1data__processing_1_1DataProcessor.html#ac8e2944d6f855feb557e929eb4631b51", null ],
     [ "extract_word", "classsrc_1_1data__processing_1_1DataProcessor.html#aca8cb2dd99e8358d0c80ff0f04307193", null ],
     [ "process_data", "classsrc_1_1data__processing_1_1DataProcessor.html#af1d408b78a8a28b54b96e30bc3de1754", null ],
     [ "process_hanja_data", "classsrc_1_1data__processing_1_1DataProcessor.html#a611dcfaf4a6c3129fc38bc01d659203f", null ],

diff --git a/docs/search/all_7.js b/docs/search/all_7.js
@@ -3,5 +3,5 @@ var searchData=
   ['get_5fhanja_5ffor_5fword_0',['get_hanja_for_word',['../classsrc_1_1data__access_1_1DataAccess.html#a6c59fef88695c46c9ee18f370e4346c6',1,'src::data_access::DataAccess']]],
   ['get_5fhanja_5fmeanings_5ffor_5fword_1',['get_hanja_meanings_for_word',['../classsrc_1_1data__access_1_1DataAccess.html#a3d1907ec15f436a5a700997ec2bdeedd',1,'src::data_access::DataAccess']]],
   ['get_5frelated_5fwords_2',['get_related_words',['../classsrc_1_1data__access_1_1DataAccess.html#a1f8eb51816b5631748421df5638689e4',1,'src::data_access::DataAccess']]],
-  ['get_5fword_5fby_5fkorean_3',['get_word_by_korean',['../classsrc_1_1data__access_1_1DataAccess.html#a3f2fa8212ead4b1885e8f26697b4b0b9',1,'src::data_access::DataAccess']]]
+  ['get_5fword_5fby_5fkorean_3',['get_word_by_korean',['../classsrc_1_1data__access_1_1DataAccess.html#a1122604162d00ff40da4c08ce4761cbb',1,'src::data_access::DataAccess']]]
 ];
